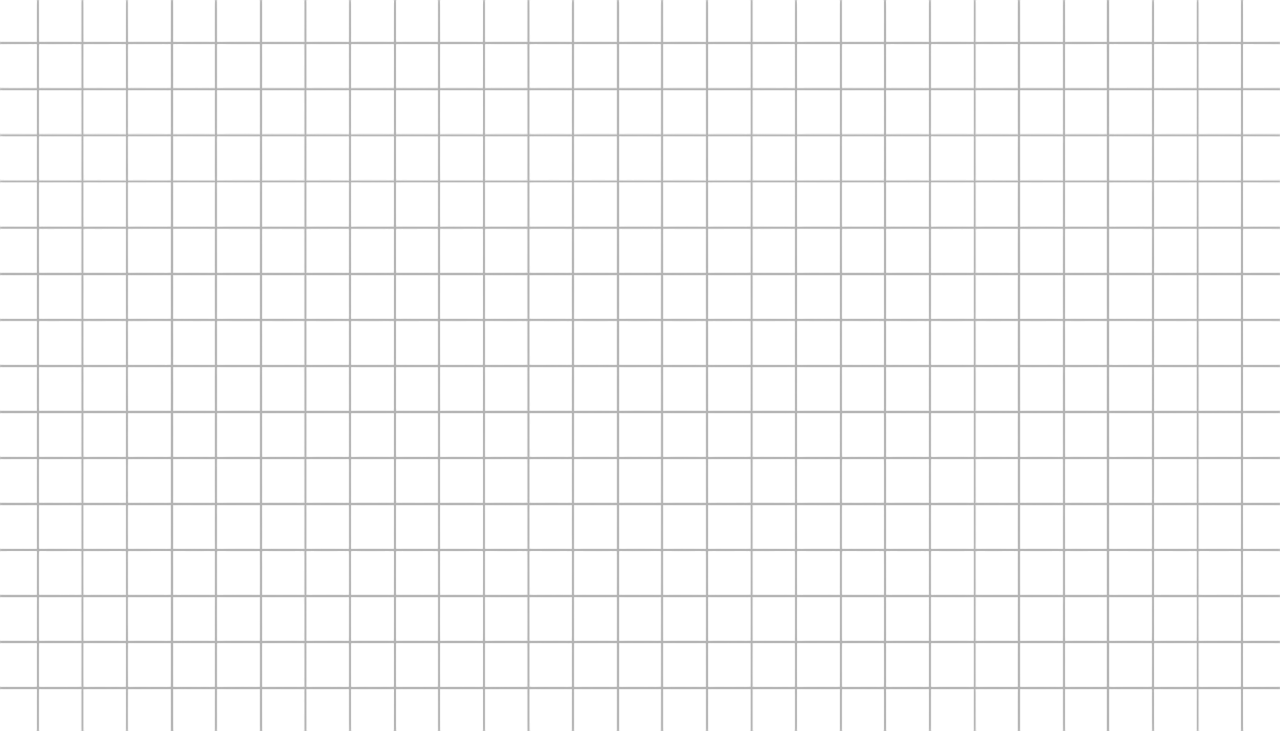
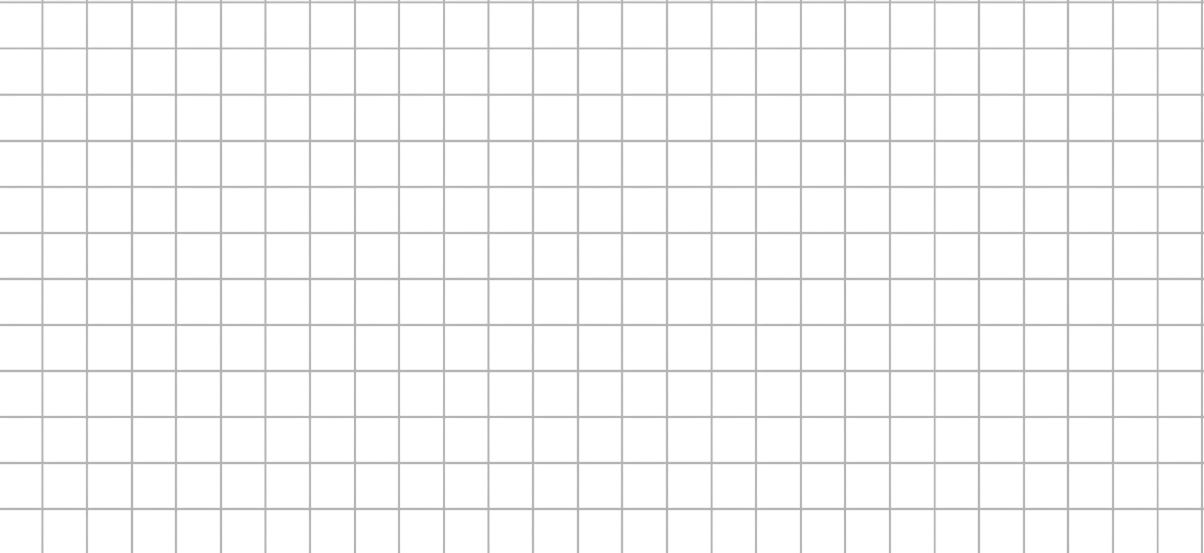
Image

Changed region(s): [[0.0, 0.0, 1.0, 1.0]]

diff --git a/styles/style.css b/styles/style.css
@@ -30,7 +30,7 @@
       background-image: url("../images/background-grid.png");
       background-repeat: repeat;
       background-position: center;
-      background-size: 500px 500px;
+      background-size: 1000px 450px;
     }
 
     /* Texto centrado sobre las barras (como póster) */
